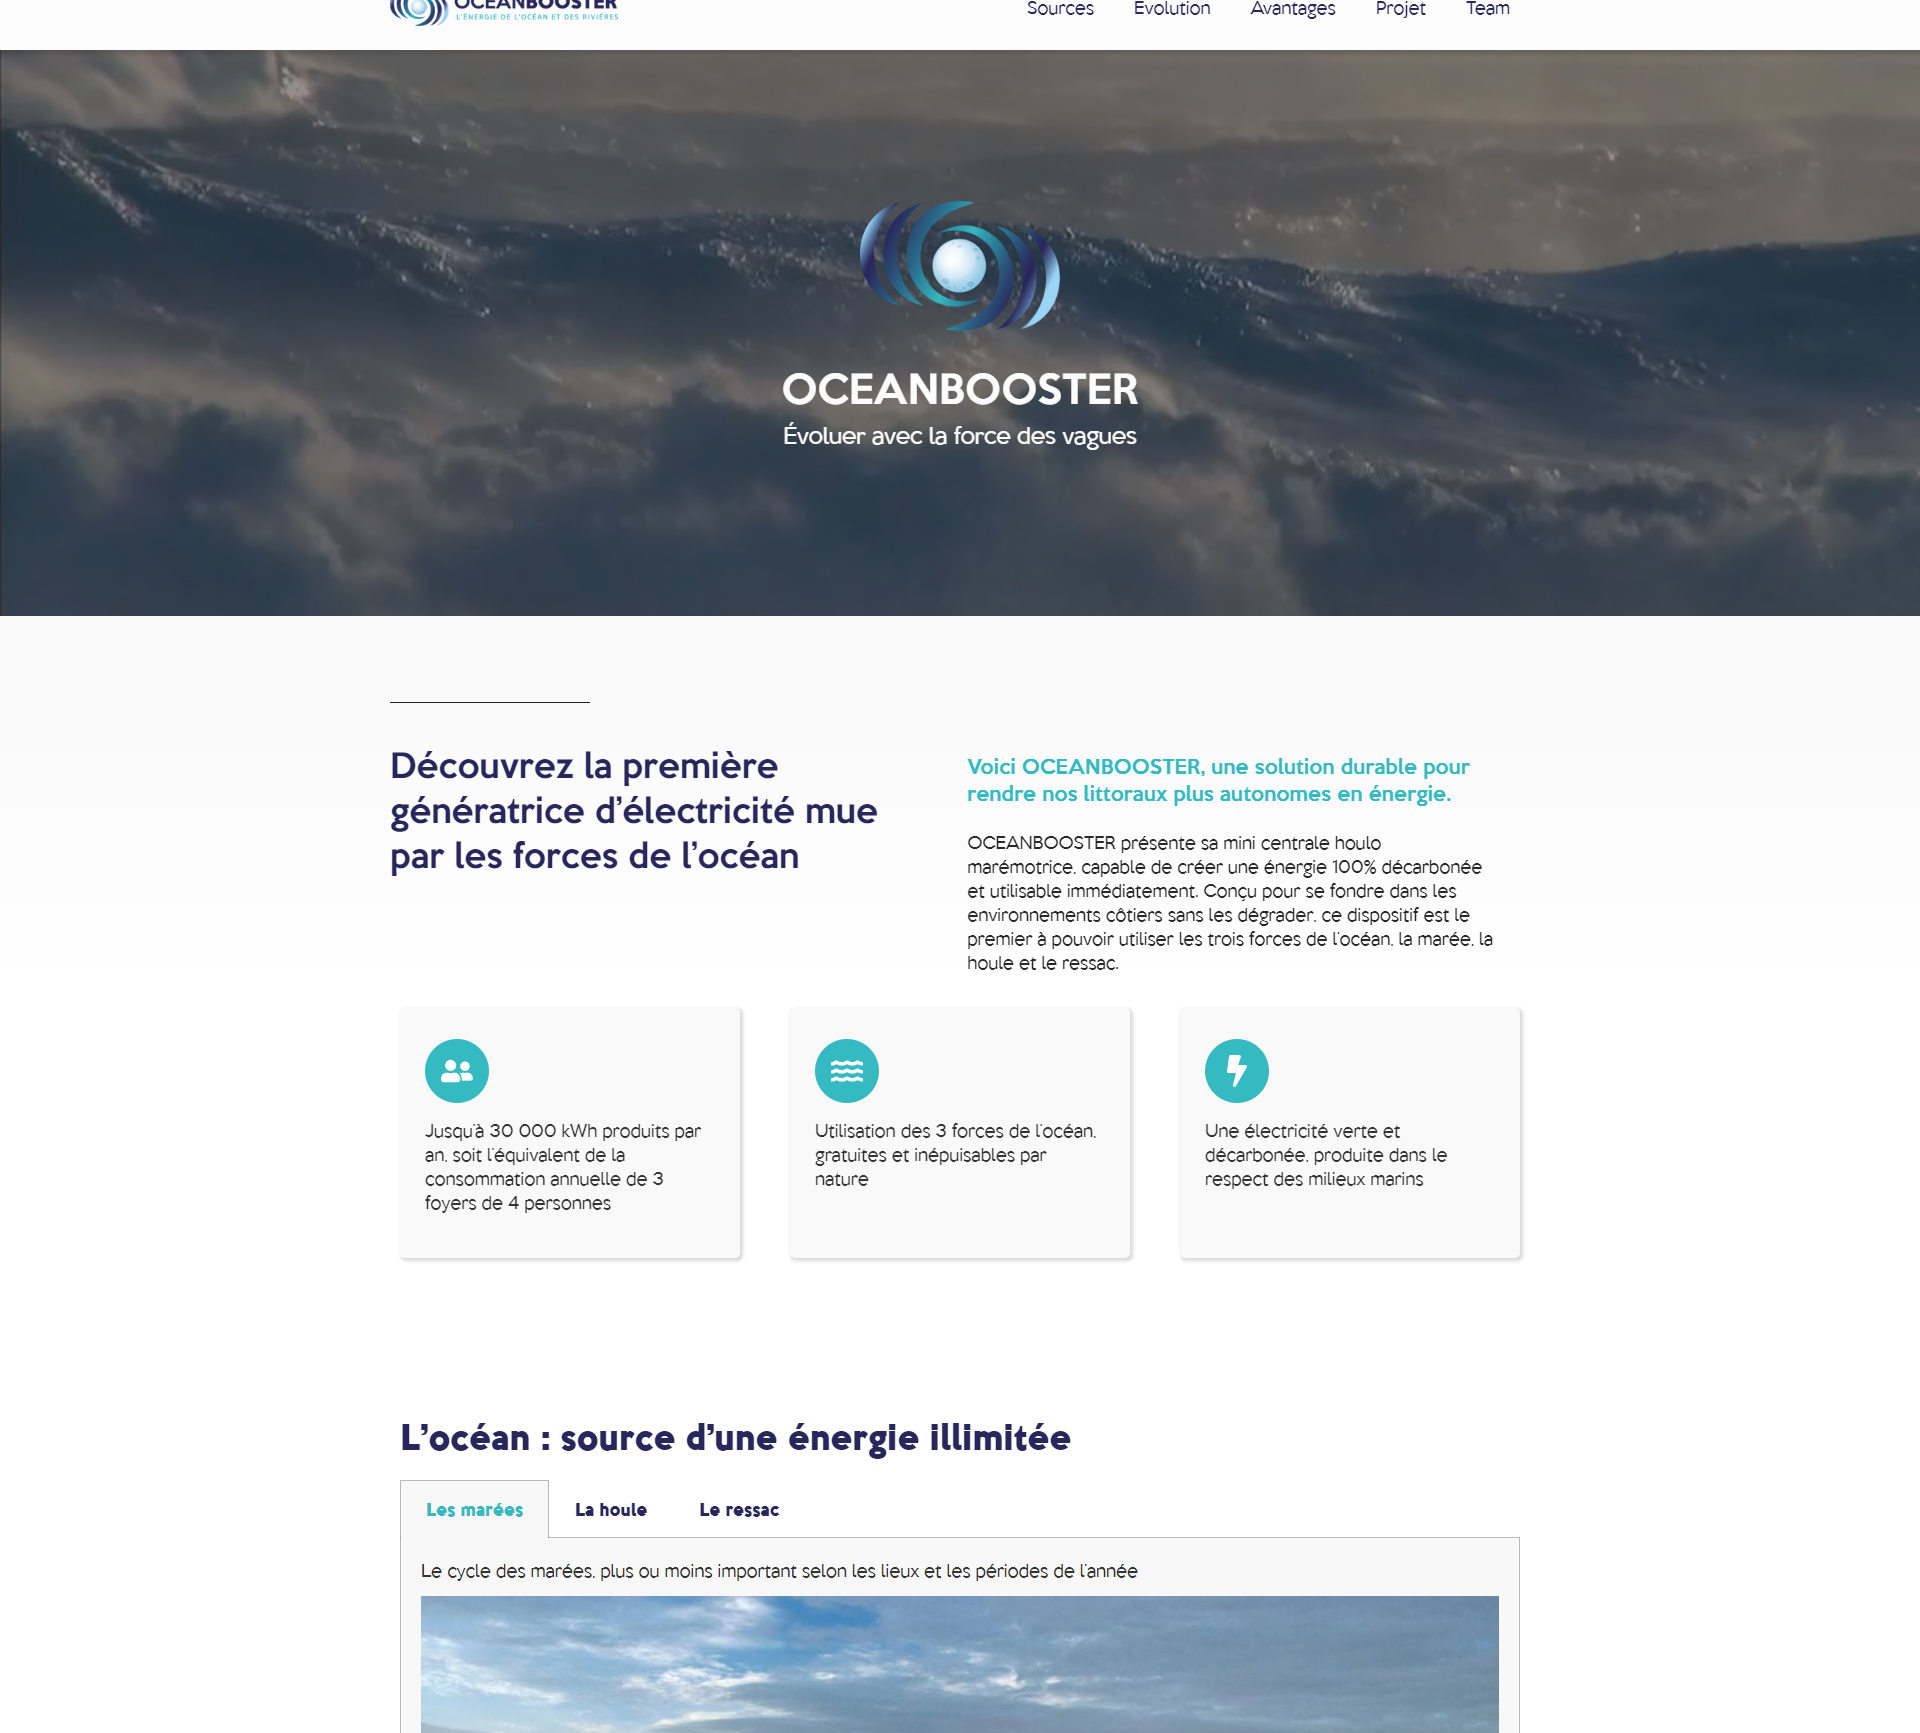
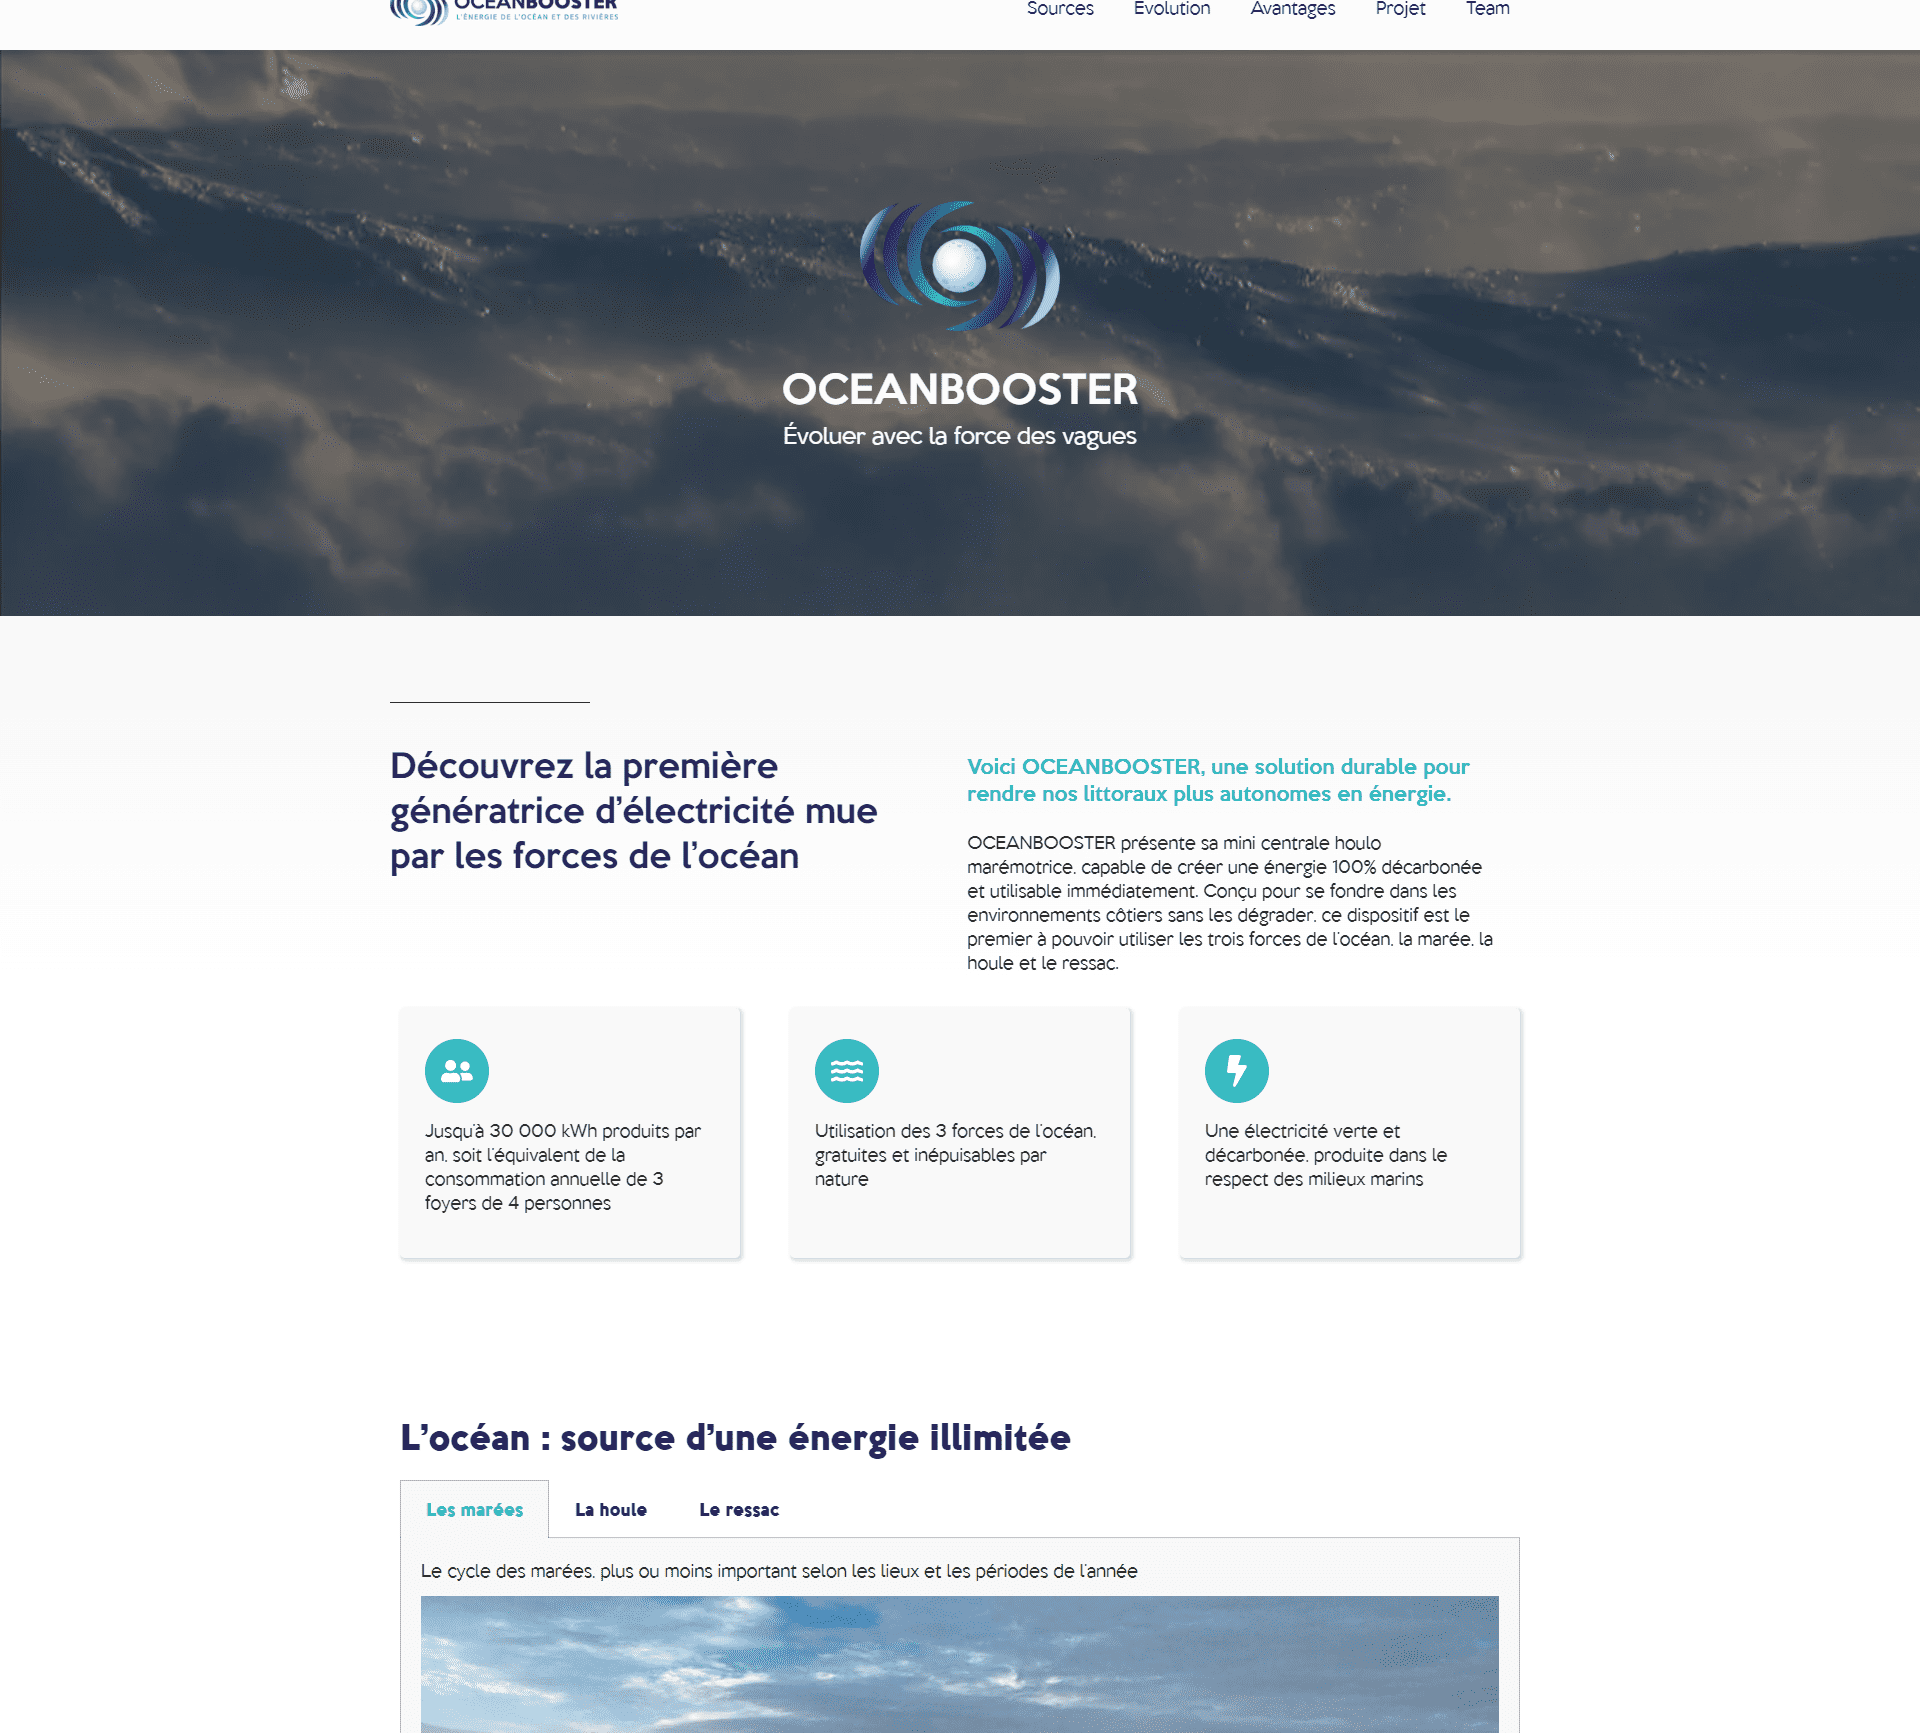
Ajustements

diff --git a/public/css/style.css b/public/css/style.css
@@ -17,6 +17,14 @@
 
 /* Base */
 
+h1 {
+  font-size: 2em;
+}
+
+h2 {
+  font-size: 1.3em;
+}
+
 .bxs {
   -webkit-box-shadow: 3px 3px 21px -7px #385170; 
   box-shadow: 3px 3px 21px -7px #385170;
@@ -56,6 +64,16 @@
 
 .mt{
  margin: 4em 5em;
+}
+
+.wp-portfolio {
+  word-wrap: break-word;
+  width: 90%;
+}
+
+.wp-article {
+  word-wrap: break-word;
+  width: 100%;
 }
 
 .page-title {
@@ -100,8 +118,17 @@ padding: 20px;
   width: 50%;
 }
 
+div.adminContent a.w350 {
+  width: 350px;
+  text-align: center;
+}
+
 .h300 {
   height: 300px;
+}
+
+.vh {
+  height: 90vh;
 }
 
 /* Taille icones */
@@ -182,6 +209,14 @@ div.navigation-links-container ul {
   cursor: pointer;
 }
 
+div.navigation-links-container ul li a:hover
+{
+  color: var(--light-blue);
+}
+
+ul.menu-user li a:hover {
+  color: var(--dark-blue);
+}
 /* Home Page */
 .tech-skills-container {
   background: var(--dark);
@@ -224,6 +259,10 @@ div.project-container {
   border-radius: 5px;
 }
 
+div.project-container:hover {
+ background-color: var(--dark-blue);
+}
+
 div.project-container img {
   width: 100%;
   height: 300px;
@@ -237,7 +276,7 @@ div.project-contain {
 
 /* Single Page */
 
-div.comment-container {
+div.comment-container, .info-article {
   width: 90%;
   padding: 20px;
 }
@@ -314,6 +353,123 @@ div.comChoice {
   display: flex;
   align-items: center;
   justify-content: space-between;
+}
+
+/* Error Page  */
+.container-error-page {
+  display: flex;
+  align-items: center;
+  justify-content: center;
+  height: 100vh;
+}
+
+.error-message {
+  text-align: center;
+  background-color: #fff;
+  padding: 20px;
+  border-radius: 8px;
+}
+
+.error-message h1 {
+  font-size: 100px;
+  margin: 0;
+}
+
+.error-message p {
+  font-size: 18px;
+  margin-bottom: 25px;
+}
+
+/* Footer  */
+footer {
+  border-top: 2px solid var(--light-blue);
+  background-color: var(--dark);
+  padding: 20px;
+  text-align: center;
+}
+
+div.footer-logo img {
+  max-width: 100px;
+  height: auto;
+  margin-bottom: 15px;
+}
+
+div.footer-links {
+  margin-bottom: 15px;
+}
+
+div.footer-links a {
+  text-decoration: none;
+  color: var(--light-blue);
+  margin: 0 15px;
+}
+
+div.footer-links a:hover {
+  color: white;
+}
+
+div.footer-socials {
+  margin-bottom: 15px;
+}
+
+div.footer-socials a {
+  color: var(--light-blue);
+  margin: 0 10px;
+  font-size: 24px;
+}
+
+div.footer-socials a:hover {
+  color: var(--extra-light-blue);
+}
+
+div.footer-legal {
+  font-size: 14px;
+  color: white;
+}
+
+/* Responsive  */
+
+@media (max-width: 768px) {
+  .footer-links {
+      display: flex;
+      flex-direction: column;
+      align-items: center;
+      margin-bottom: 10px;
+  }
+
+  .footer-links a {
+      margin: 5px 0;
+      padding-bottom: 4px; /* Augmenter l'espacement sous le texte pour la version mobile */
+  }
+
+  .footer-socials {
+      display: flex;
+      justify-content: center;
+      margin-bottom: 10px;
+  }
+
+  .footer-socials a {
+      margin: 0 8px;
+      font-size: 20px;
+  }
+
+  .footer-legal {
+      font-size: 12px;
+  }
+}
+
+@media (max-width: 480px) {
+  .footer-logo img {
+      max-width: 120px;
+  }
+
+  .footer-socials a {
+      font-size: 18px;
+  }
+
+  .footer-legal {
+      font-size: 10px;
+  }
 }
 
 @keyframes slide-in-right {

diff --git a/src/models/repository/UsersRepository.php b/src/models/repository/UsersRepository.php
@@ -28,16 +28,7 @@ class UsersRepository extends Repository
             return new User($data);
         } return null;
     }
-
-    // public function readUser(User $user) {
-    //     $sql = 'SELECT * FROM user WHERE email = :email';
-    //     $query = $this->mysqlClient->prepare($sql);
-    //     $query->bindValue('email',$user->getEmail(), PDO::PARAM_STR);
-    //     $query->execute();
-    //     $dataUser = $query->fetch(PDO::FETCH_ASSOC);
-    //     return $dataUser;
-    // }
-
+    
     public function countMailPseudo(User $user): int {
         $sql = ' SELECT COUNT(*) AS nbMailPseudo FROM user WHERE email = :email OR pseudo = :pseudo';
         $query = $this->mysqlClient->prepare($sql);
